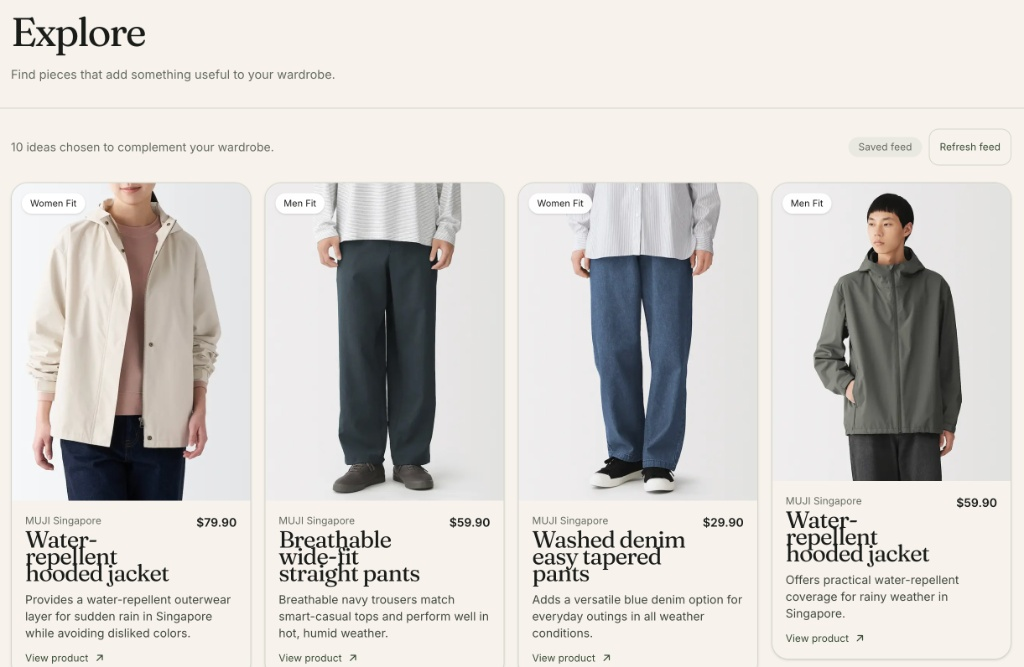
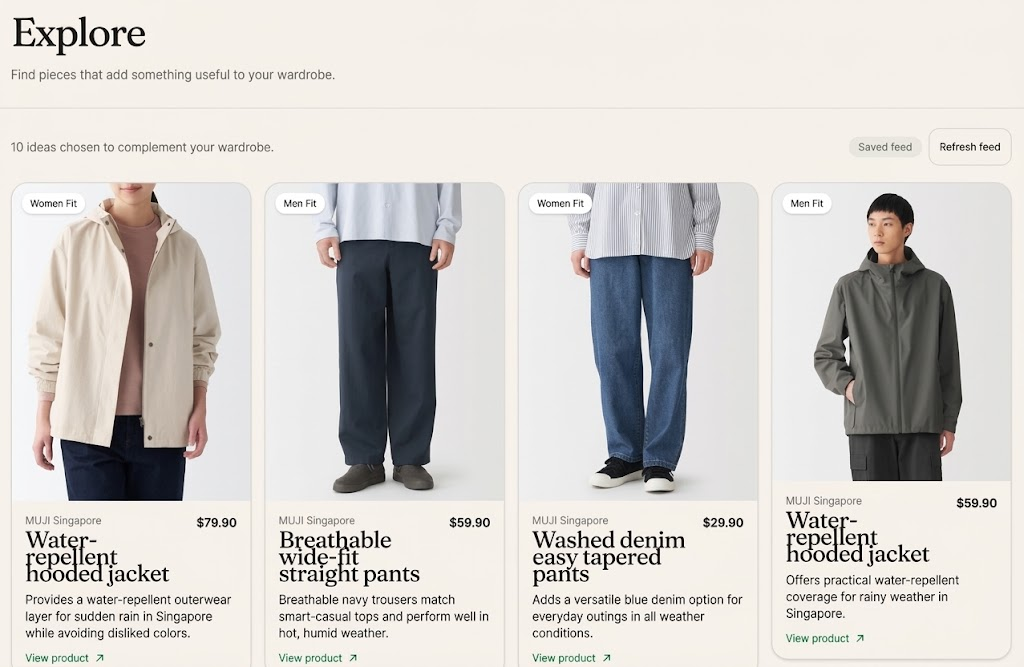
Polish hero typography, simplify bridge, fix heading overflow, pricing
Unify the hero headline to one font family (Fraunces) throughout, not
just the "wherever" em. Simplify the bridge back to a single block:
"Wear more of what you own. / Love more of what you wear." (bold
lead-ins) plus the two prior paragraphs combined into one. Fix two
headings that were overflowing to a third line ("What works for where
you are going?" and the new features sentence) with per-element
font-size/width overrides. Drop the redundant badge overlay on the
Explore feature image and swap in the latest screenshot. Split the
pricing heading into two lines, drop its intro paragraph, and move
that copy into the Wearabouts Plus card's own description.

diff --git a/app/src/app/page.tsx b/app/src/app/page.tsx
@@ -168,27 +168,21 @@ export default function LandingPage() {
           </div>
         </section>
         <section className="drape-bridge" aria-label="Wearabouts proposition">
-          <div className="drape-container drape-bridge-block">
+          <div className="drape-container">
             <h2>
-              Wear more of what you own.
+              <b>Wear more</b> of what you own.
               <br />
-              <em>Love more of what you wear.</em>
+              <b>Love more</b> of what you wear.
             </h2>
             <p>
-              Rediscover old favourites, find combinations you have never tried and stop saving your best clothes for a day that never seems to come.
-            </p>
-          </div>
-          <div className="drape-container drape-bridge-block">
-            <h2>Fashion keeps telling us we need something new.</h2>
-            <p>
-              Wearabouts starts with what is already in your wardrobe, helping turn them into outfits for any occasion and make smarter decisions about what to buy next.
+              Rediscover old favourites, find combinations you have never tried and stop saving your best clothes for a day that never seems to come. Wearabouts starts with what is already in your wardrobe, helping turn them into outfits for any occasion and make smarter decisions about what to buy next.
             </p>
           </div>
         </section>
         <LandingStory />
         <section id="features" className="drape-section drape-feature-section">
           <div className="drape-container">
-            <div className="drape-feature-heading">
+            <div className="drape-feature-heading is-wide">
               <span className="drape-eyebrow">Inside Wearabouts</span>
               <h2>
                 The magic of Wearabouts is how it <em>all</em> works together to make personal style feel <em>simpler</em>
@@ -208,7 +202,7 @@ export default function LandingPage() {
                           <span>All</span><span>Tops</span><span>Bottoms</span><span>Outerwear</span>
                         </div>
                       )}
-                      <div className={index === 2 ? "drape-explore-visual" : ""}>
+                      <div>
                         <Image
                           className={`drape-shot-image${index === 1 ? " is-mobile" : ""}${index === 3 ? " is-purchase" : ""}`}
                           src={row.src}
@@ -216,12 +210,6 @@ export default function LandingPage() {
                           width={row.width}
                           height={row.height}
                         />
-                        {index === 2 && (
-                          <div className="drape-badges" aria-hidden="true">
-                            <span>Matched to your style</span>
-                            <span>Looks you can recreate</span>
-                          </div>
-                        )}
                       </div>
                     </div>
                   </div>
@@ -235,12 +223,11 @@ export default function LandingPage() {
           <div className="drape-container">
             <div className="drape-pricing-heading">
               <span className="drape-eyebrow">Pricing</span>
-              <h2>Start free. Go deeper when you need to.</h2>
-              <p>
-                The core Wearabouts experience is free during beta. Wearabouts
-                Plus is tailored for people who want more frequent analysis, a
-                deeper wardrobe history and more personalised recommendations.
-              </p>
+              <h2>
+                Start free.
+                <br />
+                Go deeper when you need to.
+              </h2>
             </div>
             <div className="drape-price-grid">
               <article className="drape-price-card drape-price-primary">
@@ -274,8 +261,8 @@ export default function LandingPage() {
                   or S$79 a year, saving about 25%
                 </p>
                 <p>
-                  For users who want more frequent analysis and deeper wardrobe
-                  history.
+                  Tailored for people who want more frequent analysis, a deeper
+                  wardrobe history and more personalised recommendations.
                 </p>
                 <ul>
                   <li>Higher AI analysis limits</li>

diff --git a/app/src/app/landing-sections.css b/app/src/app/landing-sections.css
@@ -1,15 +1,33 @@
-/* Content-only additions from the copy refresh: a second bridge block
-   and a new FAQ section. No other section's structure changes here. */
+/* Content-only additions from the copy refresh: bridge paragraph
+   styling and a new FAQ section. No other section's structure changes
+   here. */
 
-.drape-bridge-block + .drape-bridge-block {
-  margin-top: 64px;
-}
 .drape-public .drape-bridge p {
   max-width: 640px;
   margin: 20px auto 0;
   color: var(--muted);
   font-size: 17px;
   line-height: 1.65;
+}
+.drape-public .drape-bridge h2 b {
+  font-weight: 700;
+}
+
+/* "What works for / where you are going?" is wider than the other stage
+   headings at the same size, so it wraps to a third line without this. */
+.drape-public .drape-story-copy h2.is-tight {
+  font-size: clamp(38px, 4.4vw, 64px);
+}
+
+/* The new features heading is a full sentence, much longer than the
+   short headline it replaced, so it needs a smaller size and a wider
+   column to hold to two lines. */
+.drape-public .drape-feature-heading.is-wide {
+  max-width: 1080px;
+}
+.drape-public .drape-feature-heading.is-wide h2 {
+  font-size: clamp(28px, 3.4vw, 42px);
+  line-height: 1.25;
 }
 
 .drape-public .drape-faq {
@@ -71,8 +89,5 @@
   }
   .drape-faq-item summary {
     font-size: 17px;
-  }
-  .drape-bridge-block + .drape-bridge-block {
-    margin-top: 48px;
   }
 }

diff --git a/app/src/app/landing-refresh.css b/app/src/app/landing-refresh.css
@@ -258,34 +258,6 @@
   color: #fff;
   border-color: var(--dark);
 }
-.drape-explore-visual {
-  position: relative;
-}
-.drape-badges {
-  display: flex;
-  justify-content: space-between;
-  gap: 10px;
-}
-.drape-explore-visual .drape-badges {
-  position: absolute;
-  left: 18px;
-  right: 18px;
-  bottom: 18px;
-  pointer-events: none;
-}
-.drape-explore-visual .drape-badges span {
-  padding: 9px 13px;
-  border: 1px solid #ffffff8c;
-  border-radius: 99px;
-  background: #f8f5eef0;
-  color: #30332e;
-  box-shadow: 0 8px 25px #0002;
-  font-size: 10px;
-  font-weight: 600;
-  letter-spacing: 0.08em;
-  text-transform: uppercase;
-  backdrop-filter: blur(9px);
-}
 
 /* Pricing plus-card edge pass */
 .drape-price-planned {

diff --git a/app/src/components/landing-story.tsx b/app/src/components/landing-story.tsx
@@ -14,6 +14,7 @@ const stages = [
     label: "The context",
     heading: ["What works for", "where you are going?"],
     body: "A morning class. Dinner after work. Tell Wearabouts what you have planned, and it finds the clothes that fit the day.",
+    tightHeading: true,
   },
   {
     label: "The comparison",
@@ -102,7 +103,7 @@ export default function LandingStory() {
       <h2 className="sr-only">How Wearabouts works</h2>
       <div className="drape-story-desktop">
         <div className="drape-story-copy">
-          <h2>
+          <h2 className={stages[active].tightHeading ? "is-tight" : undefined}>
             {stages[active].heading[0]}
             <br />
             {stages[active].heading[1]}

diff --git a/app/src/app/landing-hero.css b/app/src/app/landing-hero.css
@@ -137,19 +137,16 @@
 }
 .drape-public .drape-hero h1 {
   max-width: 540px;
-  font-family: DrapeInter, Arial, sans-serif;
-  font-weight: 600;
+  font-family: DrapeFraunces, Georgia, serif;
+  font-weight: 400;
   font-size: clamp(58px, 6.3vw, 98px);
   line-height: 0.96;
   letter-spacing: -0.045em;
   text-shadow: 0 5px 28px rgb(16 10 7 / 0.28);
 }
 .drape-public .drape-hero h1 em {
-  font-family: DrapeFraunces, Georgia, serif;
   font-style: normal;
-  font-weight: 400;
   color: #eef0d8;
-  letter-spacing: -0.045em;
 }
 .drape-hero-ctas {
   position: absolute;
